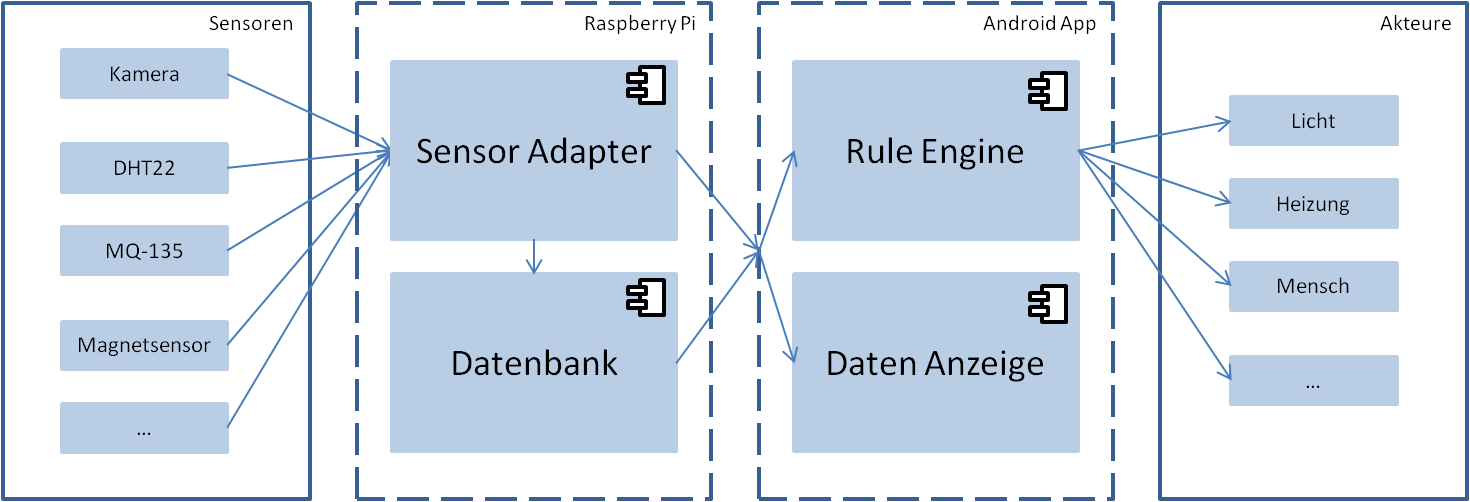
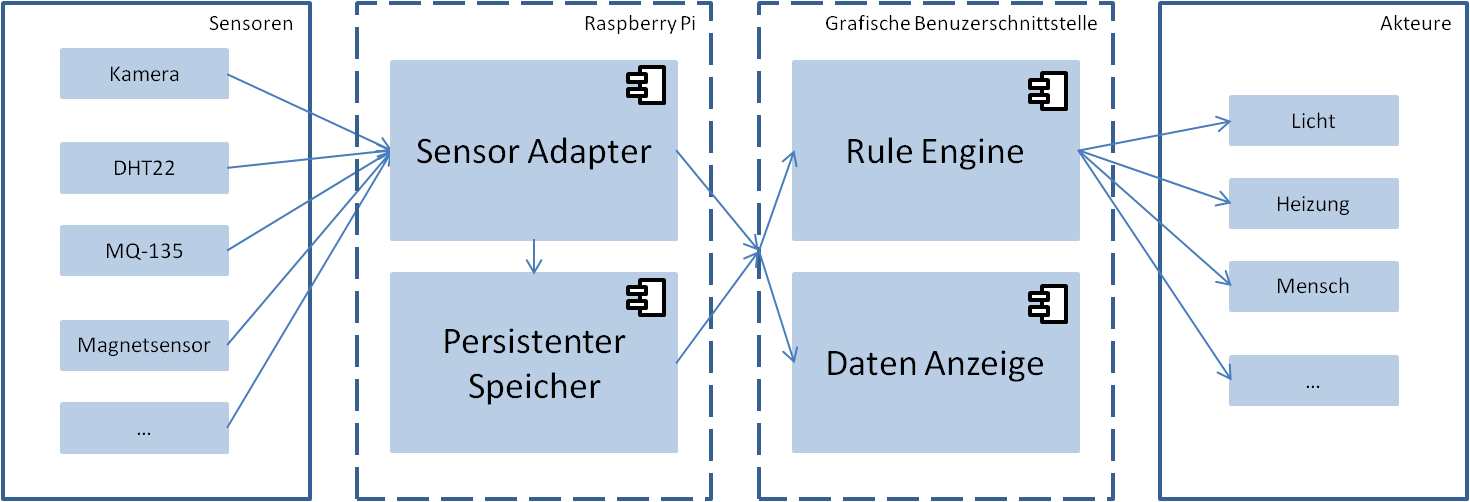
Überarbeitung der Anforderungen und Anfang des Kapitels Grafische Benutzeroberfläche

Changed region(s): [[0.3061, 0.6574, 0.4286, 0.8068], [0.551, 0.0299, 0.7653, 0.0598]]

diff --git a/content/analyse.tex b/content/analyse.tex
@@ -1,6 +1,6 @@
-\chapter{Analyse}
+\chapter{Analyse} %Louisa
 Um die Anforderungen für diese Studienarbeit aufstellen zu können, muss eine Analysephase basierend auf die Motivation durchgeführt werden. In der Analysephase werden relevante Anforderungen an das innerhalb dieser Arbeit erarbeitende System evaluiert.
-\section{Analysephase}
+\section{Analysephase} \label{sec:Anforderungen}
 Basierend auf die Motivation wird analysiert, welche Parameter die Qualität eines Raumes beeinflussen. Neben der reinen Beeinflussung der Raumqualität, müssen die Parameter zudem untersucht werden auf die Sinnhaftigkeit einer Kontrolle der Werte und einer Messbarkeit der Werte.\\
 Die Innenraumklimatologie beschäftigt sich mit den Einflussfaktoren auf das Innenraumklima. Dabei werden chemische, biologische, wie auch physikalische Faktoren betrachtet. Ziel der Innenraumklimatologie ist es ein optimales Wohn- und Arbeitsumfeld im Innenbereich zu ermöglichen \cite{raumluft:Innenraumklimatologie}. Bei einer optimalen Umgebung wird nachweislich die Behaglichkeit gesteigert, sowie die Leistungsfähigkeit \cite{Raumklimatechnik}. Schlechte Raumluft kann zudem gesundheitliche Beeinträchtigungen hervorrufen \cite{raumluft:InnenluftqualitaetundGesundheit}. Beeinflussende Parameter müssen für eine sinnvolle Raumanalyse in ihrer Gesamtheit betrachtet werden.\\
 Innerhalb dieser Arbeit wurden als repräsentative Parameter für das Raumklima Temperatur, Luftfeuchtigkeit, Kohlenstoffdioxid (kurz CO\textsubscript{2}) und Kohlenstoffmonoxid (kurz CO) ausgewählt. Diese Werte bilden eine Grundlage für eine generelle Raumüberprüfung. Es wurde sich auf diese fünf Werte beschränkt um eine allgemeine umfassende Raumkontrolle zu bewerkstelligen. Schadstoffe in der Raumluft können sehr stark von Wohngebiet und verwendete Materialien abweichen. Bei einem genaueren Verdacht auf einen Schadstoff müssen die verwendeten Sensoren entsprechend angepasst werden.\\
@@ -36,25 +36,23 @@ Innerhalb dieser Arbeit wurden auf Grundlage der Analyse die Anforderungen an da
     F-10.4.2 & Kohlenstoffmonoxid & Es kann der Kohlenstoffmonoxid Wert über einen Sensor erfasst werden. & 1 & F-00.5\\
     F-10.4.3 & Weitere Gase & Erweiterung durch weitere Gase. & 3 & F-00.5\\
     F-10.5 & Tür-/Fensterstatus & Es kann der Status von Türen und Fenstern über einen Sensor erfasst werden.  & 1 & F-00.5\\
+    F-10.6 & Kontextdaten & Es können Daten aus dem Kontext erfasst werden (z.B. Uhrzeit, Außentemperatur über Standort, etc.). & 2 & \\  
     \hline
     \multicolumn{5}{|l|}{F-20 Grafische Benutzerschnittstelle}\\
     \hline
-    F-10.1   & Datenanzeige & Die grafische Benutzerschnittstelle wird die erfassten Daten anzeigen. & 1 & F-10\\
-    F-10.1.1 & Aktuelle Daten & Es werden die aktuellen Sensordaten dem Nutzer angezeigt. & 1 & \\
-    F-10.1.2 & Historische Daten & Es werden historische Datensätze aus den Sensordaten grafisch dem Nutzer angezeigt. & 1 & \\
+    F-20.1   & Datenanzeige & Die grafische Benutzerschnittstelle wird die erfassten Daten anzeigen. & 1 & F-10\\
+    F-20.1.1 & Aktuelle Daten & Es werden die aktuellen Sensordaten dem Nutzer angezeigt. & 1 & \\
+    F-20.1.2 & Historische Daten & Es werden historische Datensätze aus den Sensordaten grafisch dem Nutzer angezeigt. & 1 & \\
+    F-20.2 & Ortsunabhängigkeit & Die grafische Benutzerschnittstelle soll ortsunabhängig von dem Benutzer zugänglich sein. & 1 & \\
     \hline
     \multicolumn{5}{|l|}{F-30 Regelbasierte Steuerung}\\
     \hline
-    F-30.1 & Regeln definieren & Der Benutzer kann eigene Regeln zur Laufzeit definieren. & 1 & \\
-    F-30.2 & Grenzwerte & Es können Grenzwerte für die erfassten Daten definiert werden. & 1 & \\
-    F-30.2.1 & Luftfeuchtigkeit & Ein Eintrag kann bearbeitet werden. & 1 & F-10.2\\
-    F-30.2.2 & Temperatur & Komponenten können hinzugefügt, editiert und entfernt werden. & 1 & F-10.3\\
-    F-30.2.3 & CO\textsubscript{2}& Einträge anderer Benutzer können in die eigenen Einträge übernommen werden. & 1 & F-10.4.1\\
-    F-30.2.4 & CO & Ein Eintrag kann mit anderen Benutzern geteilt werden. & 1 & F-10.4.2\\
-    F-30.2.5 & Weitere Gase & Einem Eintrag können mehrere Tags zugewiesen werden, die als Kategorien fungieren. & 1 & F-10.4.3\\
-    F-30.3 & Bewegung & Es können gwünschte Häufigkeiten von Bewegungen oder gewünschte Zeitintervalle zwischen zwei Bewegungen definiert werden. & 1 & F-10.1.2\\
-    F-30.4 & Fenster-/Türenstatus & Es können gwünschte Häufigkeiten von Statusänderungen oder gewünschte Zeitintervalle zwischen zwei Statusänderungen definiert werden. & 1 & F-10.5\\
-    F-30.5 & Abhängigkeiten & Es können Abhängigkeiten zwischen erfassten Daten definiert werden. & 2 & \\
+    F-30.1 & Regeln & Das System behinhaltet Regeln & 1 & \\
+    F-30.1.1 & Regeln definieren & Der Benutzer kann eigene Regeln zur Laufzeit definieren. & 1 & \\
+    F-30.1.2 & Regeln löschen & Der Benutzer kann die definierten Regeln zur Laufzeit löschen. & 2 & \\
+    F-30.2 & Werte definieren & Es können Grenzwerte oder Status für die erfassten Daten definiert werden. & 1 & \\
+    F-30.4 & Intervalle definieren & Es können gewünschte Häufigkeiten von Statusänderungen oder gewünschte Zeitintervalle zwischen zwei Statusänderungen definiert werden. & 2 & \\
+    F-30.5 & Abhängigkeiten & Es können Abhängigkeiten zwischen erfassten Daten definiert werden. & 3 & \\
     \hline
     \multicolumn{5}{|l|}{F-40 Aktionen auslösen}\\
     \hline
@@ -79,7 +77,7 @@ Innerhalb dieser Arbeit wurden auf Grundlage der Analyse die Anforderungen an da
 
 \end{tabularx}
 
-\textbf{1 - Must Haves}
+\textbf{1 - Must Haves}\\
 Die Anforderungen mit der Priorität 1 sind für die Software elementar und sollten vollständig umgesetzt werden. 
 Es muss ein System, bestehend aus Raspberry Pi, mobiler Benutzerschnittstelle und Sensoren entworfen werden (F-00). Aus der Analysephase hat sich der Bedarf nach Sensoren für folgende Werte ergeben.
 \begin{itemize}
@@ -94,11 +92,11 @@ Es muss ein System, bestehend aus Raspberry Pi, mobiler Benutzerschnittstelle un
 Es müssen passende Sensoren evaluiert werden, um anschließend die Daten auslesen zu können (F-10).\\
 Aufbauend auf die erfassten Daten soll der Nutzer Regeln erstellen können (F-30.1). Die Regeln dienen als Verknüpfung zwischen den Sensoren und den Akteuren. Je nach einkommenden Daten, soll erkannt werden, ob eine Aktion notwendig ist und wenn ja, welche Aktion von welchem Akteur ausgeführt werden muss.\\
 Für eine spätere Anwendung der Software muss ein mobiles Frontend entwickelt werden. Das Frontend ermöglicht dem Nutzer ortsunabhängig auf die Daten zuzugreifen, die Regeln zu verwalten und Benachrichtigungen zu erhalten.\\
-\textbf{2 - Should Haves}
+\textbf{2 - Should Haves}\\
 Die Anforderungen der Priorität 2 sind nicht essentiell für die Erarbeitung dieser Arbeit, aber bringen wünschenswerte Funktionalitäten.\\
 Dazu gehört die Erweiterung der Regeln um die Abbildung von Abhängigkeiten zwischen Datentypen (F-30.5). Neben der manuellen Eingabe von Abhängigkeiten, sollen Abhängigkeiten zwischen Datentypen aufbauend auf Datensätzen von dem System selbst erkannt werden (F-50.1). Diese Abhängigkeiten werden dem Nutzer, dann auf der Benutzerschnittstelle angezeigt.\\
 Des Weiteren soll ein Nutzerprofil vom Nutzer angelegt werden können (F-60.1). Vor allem für eine weitreichende Anwendung des Systems ist es wichtig die Daten zum einen vor Dritten zu schützen und zum anderen die Datenzugehörigkeit zu den Nutzern zu differenzieren.\\
-\textbf{3 – Could Haves}
+\textbf{3 – Could Haves}\\
 Die Priorisierung 3 gibt Ideen für mögliche Erweiterungen oder eine Verbesserungen des Systems. Die einzelnen Anforderungen werden bei der Implementierung der restlichen Anforderung beachtet, um eine mögliche spätere Implementierung zu vereinfachen.\\
 Eine Anforderung mit der Priorität 3 ist die Anbindung weiterer Sensoren an das System (F-10.4.3). Aufbauend auf die weiteren Sensoren ergeben sich neue Regeln und Regelkombinationen, die erstellt werden können.\\
 Des Weiteren können Akteure direkt an das System angebunden werden, um automatisiert auf Werte der Sensoren reagieren zu können (F-40.2). Das führt zum einen zu einer effizienteren Steuerung, aber auch zu einer effektiveren, weil gezielt die relevanten Akteure angesprochen werden können.\\
@@ -118,11 +116,13 @@ Aus der Anforderung F-00 ergeben sich folgende Komponenten für die Umsetzung:
 Innerhalb dieses Kapitels wird die Verknüpfung der einzelnen Komponenten erläutert. Wie die einzelnen Komponenten im Einzelnen umgesetzt werden, wird im Kapitel \ref{sec:Umsetzung} näher drauf eingegangen.\\
 Die Sensoren müssen sinnvoll an den Raspberry Pi angeschlossen werden, sodass dieser die Daten auslesen kann. Ein Sensor Adapter soll ermöglichen, eine einheitliche Schnittstelle für die Sensoren mit dem Raspberry Pi zu gewährleisten. Die Kommunikation mit den Sensoren soll ausschließlich mit einer Schnittstelle unterhalten werden. Mit Ausblick auf die individuelle Erweiterung des Systems um neue Sensoren, muss ein Framework als Sensor Adapter evaluiert werden oder ein entsprechender Sensor Adapter implementiert werden.\\
 Alle erhaltenen Daten werden nach Auslesen persistent gespeichert. Welches Speichersystem im Genauen genutzt wird, wird in der Architektur evaluiert.\\
-Für die regelbasierte Steuerung muss ein System entwickelt werden, das die Regeln anlegt, verwaltet und ausführt. Hierfür wird ein Regelmodul (im Folgenden Rule Engine) verwendet. Aus dem Grund das Regeln basierend auf aktuellen Werten oder auf Historienwerten definiert werden können, muss die Rule Engine Zugriff haben auf den Sensor Adapter direkt, sowie auf den persistenten Speicher. Die Rule Engine kann entweder im Raspberry Pi direkt oder in der grafischen Schnittstelle integriert werden. Vorteil einer Integration auf dem Raspberry Pi ist die Nähe zu den erhaltenen Sensordaten. Damit ist die Rule Engine mit ihrer Datenverarbeitung \cite{Hayes-Roth:1985:RS:4284.4286}, direkt an die zu bearbeitenden Daten geknüpft. Durch die geforderte Nähe der Rule Engine zum Benutzer (Anforderung F-30.1), bietet sich, statt der Datennähe, die Integration in die Benutzerschnittstelle an. Die Regeln werden vom Anwender definiert und genutzt. Aus diesem Grund müssen die Regeln vom Nutzer auch verstanden werden. Der Raspberry Pi wird als Datenquelle genutzt, sodass aufbauend auf die Daten die Regeln in der App angewendet werden. Der Vorteil dabei ist bei Hinzufügen, Ändern oder Löschen von Regeln geschieht das direkt beim Anwender, sollte der Raspberry Pi nicht erreichbar sein, hat dies keinen Einfluss auf die Regeln. Da sowohl die aktuellen Daten, wie auch die historischen Daten der Benutzerschnittstelle bereitgestellt werden müssen (Anforderung F10.1)
-
+Für die regelbasierte Steuerung muss ein System entwickelt werden, das die Regeln anlegt, verwaltet und ausführt. Hierfür wird ein Regelmodul (im Folgenden Rule Engine) verwendet. Aus dem Grund das Regeln basierend auf aktuellen Werten oder auf Historienwerten definiert werden können, muss die Rule Engine Zugriff haben auf den Sensor Adapter direkt, sowie auf den persistenten Speicher. Die Rule Engine kann entweder im Raspberry Pi direkt oder in der grafischen Schnittstelle integriert werden. Vorteil einer Integration auf dem Raspberry Pi ist die Nähe zu den erhaltenen Sensordaten.\\
+Damit ist die Rule Engine mit ihrer Datenverarbeitung \cite{Hayes-Roth:1985:RS:4284.4286}, direkt an die zu bearbeitenden Daten geknüpft. Durch die geforderte Nähe der Rule Engine zum Benutzer (Anforderung F-30.1), bietet sich, statt der Datennähe, die Integration in die Benutzerschnittstelle an. Die Regeln werden vom Anwender definiert und genutzt. Aus diesem Grund müssen die Regeln vom Nutzer auch verstanden werden. Der Raspberry Pi wird als Datenquelle genutzt, sodass aufbauend auf die Daten die Regeln in der App angewendet werden. Der Vorteil dabei ist bei Hinzufügen, Ändern oder Löschen von Regeln geschieht das direkt beim Anwender, sollte der Raspberry Pi nicht erreichbar sein, hat dies keinen Einfluss auf die Regeln. Da sowohl die aktuellen Daten, wie auch die historischen Daten der Benutzerschnittstelle bereitgestellt werden müssen (Anforderung F10.1).\\
+In der Abbildung \ref{fig:M1} sind die beschriebenen Komponenten schematisch dargestellt.\\
 \begin{figure}
   \centering
-    \includegraphics{images/Konzept_allgemein.png}
-  \caption{TODO}
+    \includegraphics[width=1\textwidth]{images/Konzept_allgemein.png}
+  \caption{Kontextsicht Soll-Zustand}
   \label{fig:M1}
 \end{figure}
+Aufbauend auf das erstellte Konzept wird die Architektur des Systems entworfen. Im folgenden Kapitel wird auf die einzelnen Komponenten im Genauen eingegangen und wie diese im Kontext dieser Arbeit optimal umgesetzt werden. 

diff --git a/content/grundlagen.tex b/content/grundlagen.tex
@@ -6,10 +6,11 @@
 
 \section{SQLite Datenbank}
 
-\section{Regelbasiertes System}
+\section{Regelbasiertes System} %Louisa
 Im heutigen Alltag werden kontinuierlich Daten erfasst, um auf dessen Basis Informationen zu erhalten. Daten werden aus unterschiedlichen Gründen gesammelt, meist steht jedoch hinter der Datensammlung der Wunsch einen Mehrwert aus den Daten zu schaffen. Um Daten nutzen zu können, müssen diese kanalisiert, strukturiert und archiviert werden \cite{managermagazin:datensammlung}. Regelbasierte Systeme (kurz RBS), die eine Sonderform eines Expertensystems bilden \cite{ieee:ruleBasedSystemAndNetworks}, werden für die Datenstrukturierung eingesetzt. Ursprünglich stellten diese Systeme lediglich codierte Problemlösung mit dem Wissen von menschlichen Experten dar \cite{Hayes-Roth:1985:RS:4284.4286}. Im Laufe der Zeit hat sich diese Definition erweitert. Neben Regeln, die von einem Experten gesetzt wurden, stellen regelbasierte Systeme auch Regeln auf, die auf Basis alter Datensätze erstellt wurden. Es wird aus diesem Grund bei der Erstellung eines solchen Systems unterschieden zwischen einem Experten basierten und einem Daten basierten Design. Gerade im Zuge der stark ansteigenden Datenmengen findet man regelbasierte Systeme mit einem Daten basiertem Design immer öfter im Einsatz \cite{ieee:ruleBasedSystemAndNetworks}.\\
 Die problemlösenden Methoden werden in einem RBS durch Situation-Aktion Regeln abgebildet. Um sinnvolle Lösungen zu Problemstellungen zu erlangen, sollten die folgenden fünf Punkte beim Aufstellen von Regeln beachtet werden.\\
-Das Wissen sollte in Wenn-Dann-Regeln aufgestellt werden. Die Kondition wird im ersten Teil der Regel definiert, dem Wenn-Teil. Dabei können mehrere Konditionen aneinander geknüpft werden. Im zweiten Teil der Regel, dem Dann-Teil, wird die Aktion beschrieben, die nach der Erfüllung der Kondition ausgeführt wird. Es kann davon ausgegangen werden, dass wenn die Kondition erfüllt ist, auch die Aktion erfüllt ist. Neben der Darstellung einer Regel durch die Wenn-Dann Form, können Regeln auch durch Entscheidungstabellen abgebildet werden \cite{HSAugsburg:RuleEngine}. Entscheidungstabellen verknüpfen Aktionen mit Bedingungen \cite{itwissen:entscheidungstabelle}. Der Unterschied zu den zuvor beschriebenen Wenn-Dann-Regeln, ist die formale Aufstellung der Regeln in Form von einer Tabellenstruktur.\\
+Das Wissen sollte in Wenn-Dann-Regeln aufgestellt werden. Die Kondition wird im ersten Teil der Regel definiert, dem Wenn-Teil. Dabei können mehrere Konditionen aneinander geknüpft werden. Im zweiten Teil der Regel, dem Dann-Teil, wird die Aktion beschrieben, die nach der Erfüllung der Kondition ausgeführt wird. Es kann davon ausgegangen werden, dass wenn die Kondition erfüllt ist, auch die Aktion erfüllt ist. Eine RB kann aus diesem Grund als Interpreter von Wenn-Dann-Regeln gesehen werden\cite{oracle:JREAPI}.\\
+Neben der Darstellung einer Regel durch die Wenn-Dann Form, können Regeln auch durch Entscheidungstabellen abgebildet werden \cite{HSAugsburg:RuleEngine}. Entscheidungstabellen verknüpfen Aktionen mit Bedingungen \cite{itwissen:entscheidungstabelle}. Der Unterschied zu den zuvor beschriebenen Wenn-Dann-Regeln, ist die formale Aufstellung der Regeln in Form von einer Tabellenstruktur.\\
 Als zweiten Punkt, den man beim Aufstellen von Regeln beachten soll, ist die Steigerung der Kompetenz des RBS proportional zur Wissenserweiterung. Wenn diese Steigerungen nicht proportional zueinander verlaufen, wird das RBS auf lange Sicht nicht den gewünschten Mehrwert mit sich bringen.\\
 Des Weiteren sollte das RBS durch Kombination von Regeln auch komplexere Problemstellungen lösen. Dabei werden die Ergebnisse der Regelausführung sinnvoll kombiniert. Um Probleme bestmöglich lösen zu können, sollten RBS die optimale Reihe von Regeln bestimmen und anschließend ausführen. Die nach Durchführung der Regel erhaltene Lösung zur Problemstellung sollte vom System anschließend in natürliche Sprache oder in Aktionen, die für den Menschen verständlich sind, übersetzt werden.\\
 Genutztes Wissen innerhalb eines RBS wird als problemlösendes Wissen bezeichnet und besteht aus verschiedenen Formen von Informationen. So können Informationen durch Beobachtungen gesammelt werden, aber auch durch Abstrahierung, Generalisierung oder Kategorisierung von gegebenen Daten. Neben reinen Daten werden auch Verknüpfungen von Daten als relevante Informationen angesehen, sowie Strategien zur Datengewinnung \cite{Hayes-Roth:1985:RS:4284.4286}.\\

diff --git a/content/umsetzung.tex b/content/umsetzung.tex
@@ -1,4 +1,37 @@
-\chapter{Umsetzung - Safe and Sound} \label{sec:Umsetzung}
+\chapter{Umsetzung} \label{sec:Umsetzung}
 
 \section{Architektur}
+Auf Basis der Grundlagen und Analyse wird die Architektur des Systems erstellt.
+In der Architektur werden alle wichtigen Entscheidungen, welche für die
+Entwicklung des Systems relevant und von technischer Natur sind, berücksichtigt. Die Architektur dient als Grundlage für die darauffolgende Umsetzung.
 
+\section{Raspberry Pi}
+\subsection{Sensor Adapter}
+
+\subsection{Persistenter Speicher}
+
+\section{Grafische Benutzeroberfläche} %Louisa
+Als grafische Benutzerschnittstelle für das in dieser Arbeit erläuterte System wird eine ortsunabhängige Lösung entwickelt (F-10.2). Um eine Ortsunabhängigkeit gewährleisten zu können, bietet es sich an ein mobiles Endgerät zu entwickeln. Es wurde  entschieden als Benutzerschnittstelle eine Android App zu nutzen, aus dem Grund, dass Android den höchsten Endkundenabsatz besitzt \cite{statista:marktanteileandroid} und dadurch eine größere Maße erreicht werden kann.
+\subsection{Rule Engine}
+Die Rule Engine wird nach den Anforderungen aus Kapitel \ref{sec:Anforderungen} entwickelt. Demnach muss die Rule Engine dem Nutzer ermöglichen dynamisch Regeln hinzufügen zu können oder wieder zu löschen (F-30.1). Grenzwerte oder Wertebereiche kann der Nutzer für die erfassten Datentypen (F-10) selbst bestimmen (F-30.2). Des Weiteren soll die Rule Engine zeitliche Aspekte in den Regeldefinitionen einbinden können. Der Nutzer kann demnach zeitliche Intervalle festlegen, in denen ein Wert oder Wertebereich gehalten werden soll. Die Definition von Datenabhängikeiten kann von der Rule Engine verarbeitet werden, um optimalere Aktionen auslösen zu können (F-30.5).\\
+Es werden mögliche Rule Engines recherchiert, die die gestellten Anforderungen erfüllen. Dabei wurden nur Rule Engines betrachtet, die in Android genutzt werden können, sowie welche mit regelmäßigen Releases. Aus der Recherche haben sich folgende Rule Engine Bibliotheken ergeben:
+\begin{itemize}
+\item Easy Rules \cite{github:easyrules}
+\item OpenRules \cite{openrules}
+\item RuleBook \cite{github:rulebook}
+\end{itemize}
+Diese Rule Engines bieten gute Möglichkeiten Regeln zu erstellen und diese zu überprüfen. Der entscheidene gemeinsame Nachteil dieser Rule Engines ist die Implementierung der Regeln. Durch die Recherche konnte keine Engine gefunden werden, die eine dynamische Erstellung von neuen Regeln über die Oberfläche ermöglichen. Die Definition neuer Regeln durch den Nutzer ohne den Quellcode zu veränder ist jedoch eine essentielle Anforderung. Aus diesem Grund wurde sich dafür entschieden, eine Rule Engine selbst zu implementieren.\\
+Bei der Implementierung der Rule Engine wurden die Ergebnisse der Recherche miteinbezogen. Vor allem an die Struktur der Regeln zu ihren Wenn- und Dann-Teilen der Regel Engine RuleBook wurde bei der Implementierung betrachtet.
+
+
+- Warum keine RuleEngine Bibliothek nutzen?
+	-mögliche Rule Engines: es wurden nur RuleEngines betrachtet, die in Android genutzt werden können
+		- Easy Rules
+		- OpenRules
+		- Dredd
+		- RuleBook
+			-Vorteile:  
+		- Nachteile bzw. Vorteile von diesen Engines
+- Warum keine bekannt Rule Sprache nutzen um Regeln zu definieren? - RuleML
+
+\subsection{Daten Anzeige}

diff --git a/content/einleitung.tex b/content/einleitung.tex
@@ -9,7 +9,7 @@ Von dieser Motivation aus wird das im nächsten Kapitel beschriebene Ziel angest
 \section{Ziel}
 Das Ziel dieser Arbeit ist es, durch eine methodische Vorgehensweise einen ``perfekten'' Raum für Senioren mit Hilfe eines Raspberry Pis zu schaffen. Angehörigen und Pflegern soll ein System zur Verfügung gestellt werden, das ihnen dabei hilft, eine sensorbasierte Kontrollinstanz für den Raum aufzubauen.\\
 Um einen optimalen Raum für Sensioren zu schaffen, sollen die Raumbedingungen mit elektronischer Hilfe kontrolliert und verbessert werden.
-Dafür sollen Angehörige bzw. Pflegekräfte automatisiert benachrichtigt werden, sobald ein manuelles Eingreifen sinnvoll ist.
+Dafür sollen Angehörige bzw. Pflegekräfte automatisiert benachrichtigt werden, sobald ein manuelles Eingreifen sinnvoll ist. Der Nutzer des Systems soll Regeln definieren können, nach denen dieser dann benachrichtigt wird.
 Um sinnvolle Benachrichtigungen geben zu können, müssen diverse Sensoren im Raum platziert werden mit dessen Hilfe die Raumbedingungen überwacht werden können. Es wird ein Algorithmus benötigt, der entscheidet, wann die zuständige Person benachrichtigt wird, mit einem Vorschlag, die Raumbedingungen positiv zu verändern.\\
 Zu Beginn muss evaluiert werden, welche Sensoren sinnvolle Daten liefern, um optimale Raumbedingungen für Sensoren gewährleisten zu können. Die Sensordaten müssen erfasst werden und den zentralen Komponenten zur Verfügung gestellt werden.\\
 Zentrale Komponenten sind der Raspberry Pi, der Daten verarbeitende Algorithmus, sowie das regelbasierte System.
